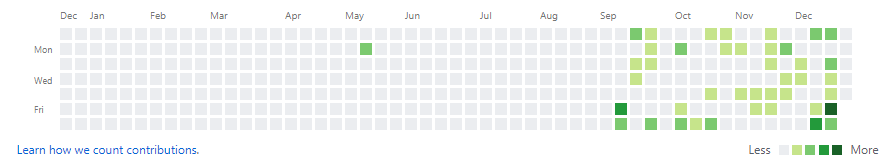
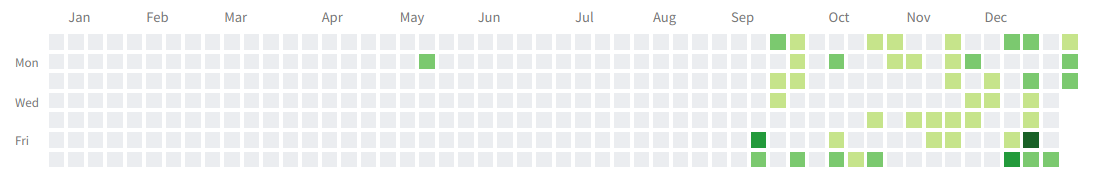
add 2019 annual summary

diff --git a/_posts/2020-01-01-2019-annual-summary.md b/_posts/2020-01-01-2019-annual-summary.md
@@ -8,24 +8,34 @@ All I can do is work hard and learn as much as possible.
 
 At the beginning of 2019, I told myself that 2019 is crucial for me. I must do something that will allow me to seize the opportunity that gives me a clear direction.
 
-And today, it is time to do a summary.
+Time flies and many things happen in 2019. Maybe it didn't meet my expectations, but fortunately I don't feel regret.
+
+Today is January 1, 2020, it's time to do a summary.
 
 ## Annual Targets
 
 ### Unfinished Targets
 
 - Read Lua source code
+
     I didn't finish reading the code, I only read part of it. But it's a start, I have started to understand some of these principles.
+
 - Finish [OpenGL tutorial](http://www.opengl-tutorial.org/)
+
     I didn't have time to learn it since I didn't finish reading Lua source code.
+
 - Read 10 books
+
     Only 6.
 
 ### Finished Targets
 
 - Memorize words every day
+
     I done it.
+
 - Finish reading *CLRS*, and then read *TCP/IP Illustrated*
+
     I done it. But the translation of *TCP/IP Illustrated* is too bad, So I read *Discrete Mathematics and Its Applications* instead of it.
 
 ## English
@@ -41,10 +51,16 @@ I have been remembering words for 605 days. I'm not good at language learning an
 - I finished reading *CLRS* except the last two chapter due to I didn't have enough mathematical knowledge to understand it.
 - I read about 1/3 of *Discrete Mathematics and Its Applications*.
 - I have been doing algorithmic exercises on [LeetCode](https://leetcode-cn.com/) since June. It's difficult for me, but this is the beginning.
+
     ![leetcode](/assets/images/2019-annual-summary_2.png)
+
 - I built [my tech blog](https://luyuhuang.github.io) and wrote 17 posts.
 - I have been contributing on GitHub since September, it taught me a lot.
+
     ![github](/assets/images/2019-annual-summary_3.png)
+
+    I hope it'll be full of green spots in 2020.
+
 - I read a part of Lua source code following [this guide](https://github.com/lichuang/Lua-Source-Internal). I have understand some of these principles.
 
 ## Reading
@@ -62,10 +78,14 @@ The two books that impressed me most were *Notre-Dame de Paris* and *Journey Und
 
 ## Something Happy
 
-On November 9 I attended the concert *リスアニ LIVE Beijing* and met Nitta Emi. This is my happiest day in years.
+On November 9 I attended the *Risuani LIVE Beijing* concert and met Nitta Emi. This is my happiest day in years.
 
 ![concert](/assets/images/2019-annual-summary_4.jpg)
 
-The most comforting is that I still love programming despite I graduated from college over 2 years. I feel so happy: what I work every day is what I love.
+## Finally
+
+The most comforting is that I still love programming despite I graduated from college over 2 years. I feel so happy: what I work every day is what I love. I hope to keep it like this in the future.
+
+I hope to make some changes in the future, I hope I won't feel confused in the future.
 
 Hello 2020. It must be a new beginning.

diff --git a/about.md b/about.md
@@ -3,6 +3,6 @@ layout: page
 title: About
 permalink: /about/
 ---
-Hi, This is Luyu Huang. I\'m a software engineer and game developer. I graduate from Jiangxi Normal University in Software Engineering and I have been a game programmer since 2016. I have been working on game programming for *Legacy of Discord* since two years ago, which is a popular game in 198 countries. I good at Lua, Python, Linux, etc.
+Hi, This is Luyu Huang. I\'m a software engineer and game developer. I graduated from Jiangxi Normal University in Software Engineering and I have been a game programmer since 2016. I have been working on game programming for *Legacy of Discord* since two years ago, which is a popular game in 198 countries. I good at Lua, Python, Linux, etc.
 
 Summary and sharing always make people progress, so I built this site. This site is my personal tech blog, here I would like to write some posts about programming, algorithms, mathematics, etc. I love programming. To me, programming is an awesome endeavor. I also interested in algorithms, mathematics and game designing. In addition, I\'m a young programmer, I\'m still learning. So if you find a mistake in my posts, I would appreciate it if you point it out.
